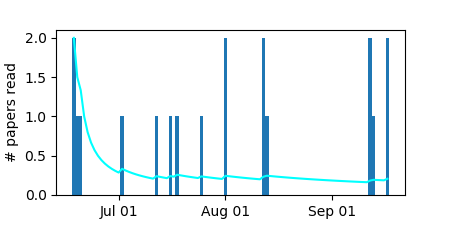
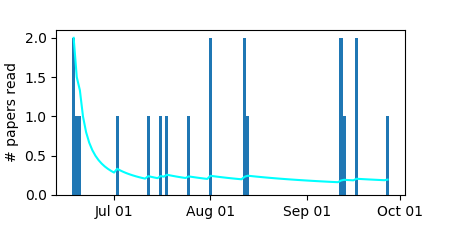
Andersonetal2017

diff --git a/README.md b/README.md
@@ -10,8 +10,16 @@ The goal is that these .md files will be able to be indexed by python based on t
 Notes (author, year, journal in file header) on readings.  Top of each note document has authors, year, journal, title, and keywords as subsections that can be used to later index through files if needed. Each folder contains a `.bib` file updated with each new `.md` note file for use in compiling references in LaTeX.  Upon reading each paper, a new note file is made, an addition is entered into the `.bib` file, and `readingStats.py` is executed to repopulate the below list and update the figures above.
 
 
+## Lab_methods 
+ 
+
 ## Cryosphere 
  
+
+### Sea_ice 
+ 
+* [NiemiandMichel2015 - Temporal and spatial variability in sea-ice carbon:nitrogen ratios on Canadian Arctic shelves](https://github.com/zscooper/ReadingList/tree/master/papers/Cryosphere/Sea_ice/NiemiandMichel2015.md) 
+     * This study conducts a temporal and spatial survey of C:N ratios in sea ice. 
 
 ### Permafrost 
  
@@ -22,15 +30,10 @@ Notes (author, year, journal in file header) on readings.  Top of each note docu
 * [Lizukaetal2019 - Ion concentrations in ice wedges: An innovative approach to reconstruct past climate variability](https://github.com/zscooper/ReadingList/tree/master/papers/Cryosphere/Permafrost/Lizukaetal2019.md) 
      * This study investigates ionic composition of the Barrow Ice Wedge System (massive ice in my paper) as a proxy for paleoclimate and geography records 
 
-### Cold Brines 
+### Cold_brines 
  
-* [Bakermans2015 - Extreme environments as model systems for the study of microbial evolution](https://github.com/zscooper/ReadingList/tree/master/papers/Cryosphere/Cold Brines/Bakermans2015.md) 
+* [Bakermans2015 - Extreme environments as model systems for the study of microbial evolution](https://github.com/zscooper/ReadingList/tree/master/papers/Cryosphere/Cold_brines/Bakermans2015.md) 
      * This is a book chapter Life in Extreme Environments (ed. Dirk Wagner) discussing the study of microbial evolution in extreme environments. 
-
-### Sea ice 
- 
-* [NiemiandMichel2015 - Temporal and spatial variability in sea-ice carbon:nitrogen ratios on Canadian Arctic shelves](https://github.com/zscooper/ReadingList/tree/master/papers/Cryosphere/Sea ice/NiemiandMichel2015.md) 
-     * This study conducts a temporal and spatial survey of C:N ratios in sea ice. 
 
 ## Bacterial-genera 
  
@@ -63,21 +66,20 @@ Notes (author, year, journal in file header) on readings.  Top of each note docu
 * [TsilimigrasandFodor2016 - Compositional data analysis of the microbiome: fundamentals, tools, and challenges](https://github.com/zscooper/ReadingList/tree/master/papers/Metagenomics/Methods/TsilimigrasandFodor2016.md) 
      * This is a minireview of compositional data analyses. 
 
-### Population Genetics 
+### Community_assembly 
  
-* [DeLong2002 - Microbial population genomics and ecology](https://github.com/zscooper/ReadingList/tree/master/papers/Metagenomics/Population Genetics/DeLong2002.md) 
+
+### Population_genetics 
+ 
+* [DeLong2002 - Microbial population genomics and ecology](https://github.com/zscooper/ReadingList/tree/master/papers/Metagenomics/Population_genetics/DeLong2002.md) 
      * This is an early review of culture-independent studies of bacterial diversity/populations in the environment. 
-* [Greenbaumetal2016 - Inference and Analysis of Population Structure Using Genetic Data and Network Theory](https://github.com/zscooper/ReadingList/tree/master/papers/Metagenomics/Population Genetics/Greenbaumetal2016.md) 
+* [Greenbaumetal2016 - Inference and Analysis of Population Structure Using Genetic Data and Network Theory](https://github.com/zscooper/ReadingList/tree/master/papers/Metagenomics/Population_genetics/Greenbaumetal2016.md) 
      * This paper describes a method for analyzing population structure using network analyses based on distance-based clustering. 
-* [Truongnetal2017 - Microbial strain-level population structure and genetic diversity from metagenomes](https://github.com/zscooper/ReadingList/tree/master/papers/Metagenomics/Population Genetics/Truongnetal2017.md) 
+* [Truongnetal2017 - Microbial strain-level population structure and genetic diversity from metagenomes](https://github.com/zscooper/ReadingList/tree/master/papers/Metagenomics/Population_genetics/Truongnetal2017.md) 
      * Development and application of StrainPhlAn, a tool for differentiating prokaryotic strains from metagenomes 
-* [Karstetal - Enabling high-accuracy long-read amplicon sequences using unique molecular identifiers and Nanopore sequencing (pre-print)](https://github.com/zscooper/ReadingList/tree/master/papers/Metagenomics/Population Genetics/Karstetal.md) 
+* [Karstetal - Enabling high-accuracy long-read amplicon sequences using unique molecular identifiers and Nanopore sequencing (pre-print)](https://github.com/zscooper/ReadingList/tree/master/papers/Metagenomics/Population_genetics/Karstetal.md) 
      * Pre-print of a methods development for producing high accuracy consensus sequences from amplicons generated using Oxford Nanopore MinION sequencing. 
-* [WarwickDugdaleetal2019 - Long-read viral metagenomics captures abundant and microdiverse viral populations and their niche-defining genomic islands](https://github.com/zscooper/ReadingList/tree/master/papers/Metagenomics/Population Genetics/WarwickDugdaleetal2019.md) 
+* [Andersonetal2017 - Genomic variation in microbial populations inhabiting the marine subseafloor at deep-sea hydrothermal vents](https://github.com/zscooper/ReadingList/tree/master/papers/Metagenomics/Population_genetics/Andersonetal2017.md) 
+     * This study explores evolution in hydrothermal vent microbial populations using population genetics to investigate genomic variation in MAGs. 
+* [WarwickDugdaleetal2019 - Long-read viral metagenomics captures abundant and microdiverse viral populations and their niche-defining genomic islands](https://github.com/zscooper/ReadingList/tree/master/papers/Metagenomics/Population_genetics/WarwickDugdaleetal2019.md) 
      * First use of combined long and short read metaviromics to produce data useful for understanding microdiversity within a viral population 
-
-### Community-assembly 
- 
-
-## Lab methods 
- 

diff --git a/papers/Metagenomics/Population_genetics/Andersonetal2017.md b/papers/Metagenomics/Population_genetics/Andersonetal2017.md
@@ -1,0 +1,22 @@
+09/27/19
+## Authors:
+Anderson, RE; Reveillaud, J; Reddington, E; Delmont, TO; Eren, AM; McDermott, JM; Seewald, JS; Huber, JA
+## Title:
+Genomic variation in microbial populations inhabiting the marine subseafloor at deep-sea hydrothermal vents
+## Keywords:
+Population genetics
+## Geographic Coverage
+Von Damm/Piccard HTVs, Mid-Cayman Rise, Caribbean Sea
+## Field Dates:
+2012 and 2013
+## Significance:
+This study explores evolution in hydrothermal vent microbial populations using population genetics to investigate genomic variation in MAGs.
+
+## Notes:
+Hydrothermal vents provide dynamic environments with a range of conditions, often lending to higher diversity and incidences of HGT than observed in more stable environments.
+
+Ratio of single amino acid variation to single nucleotide variation (SAAV/SNV) can be a useful indicator of how diversification actuates change in a population.
+
+MAGs with few SNVs often represented abundant strains of bacteria in their environment.
+
+High diversity is observed within the genus *Sulfurovum* in these environments, but two MAGs of this genus were observed with high coverage and low SNV density indicating that they were subjected to distinct ecological pressure relative to other *Sulfurovum* populations.
